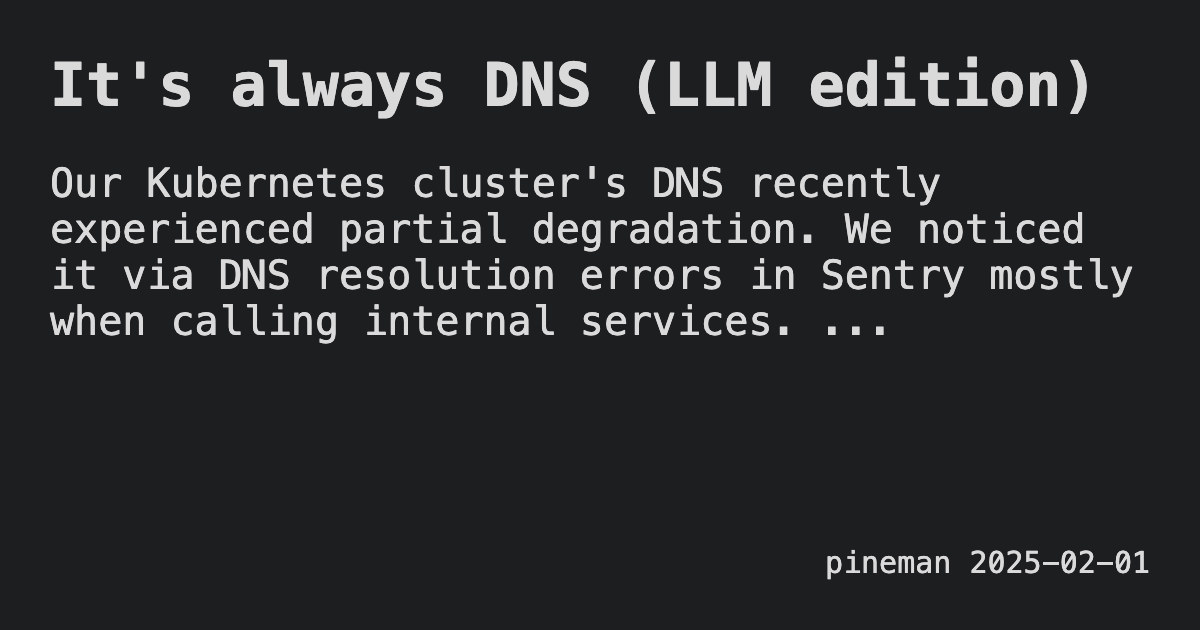
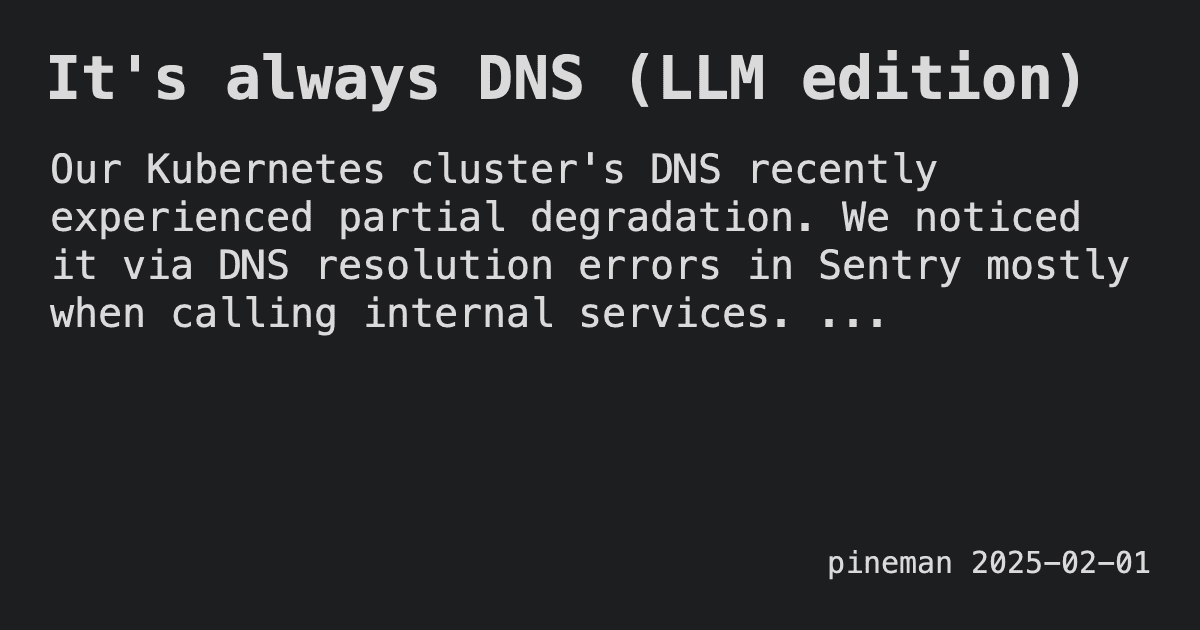
simplify link preview with libvips

diff --git a/AGENTS.md b/AGENTS.md
@@ -16,5 +16,5 @@ Static site generator for a personal homepage: Ruby Rake + ERB + pandoc. `Rakefi
 - The build rewrites `notes/links.md`: it fetches titles from Hacker News, YouTube and antirez.com, so it needs network access. `docs/links.md` from the previous build is the cache of processed lines. `rake clean` deletes it, and the next build fetches all links again.
 - `docs/` is the GitHub Pages root. Generated files in it are committed, so commit them with the source change. `rake clean` only deletes generated files, not the static ones in `docs/`.
 - Pages are written at different depths. In templates, use `site_link(path)` for internal links.
-- Each new post needs a link preview image, made with Chrome at its macOS path and Docker (imagemagick).
+- Each new post needs a link preview image, made with libvips (`brew install vips`).
 - `posts/ideas/` is not built.
